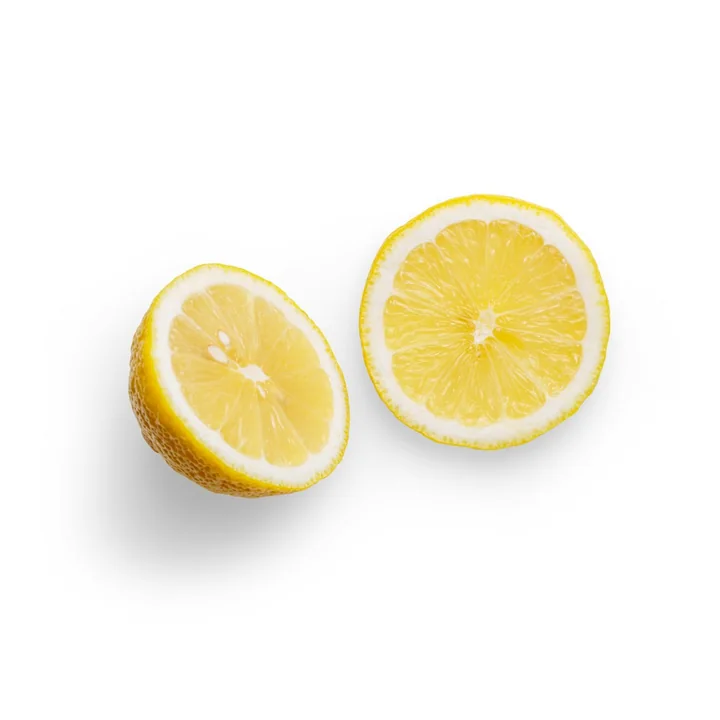
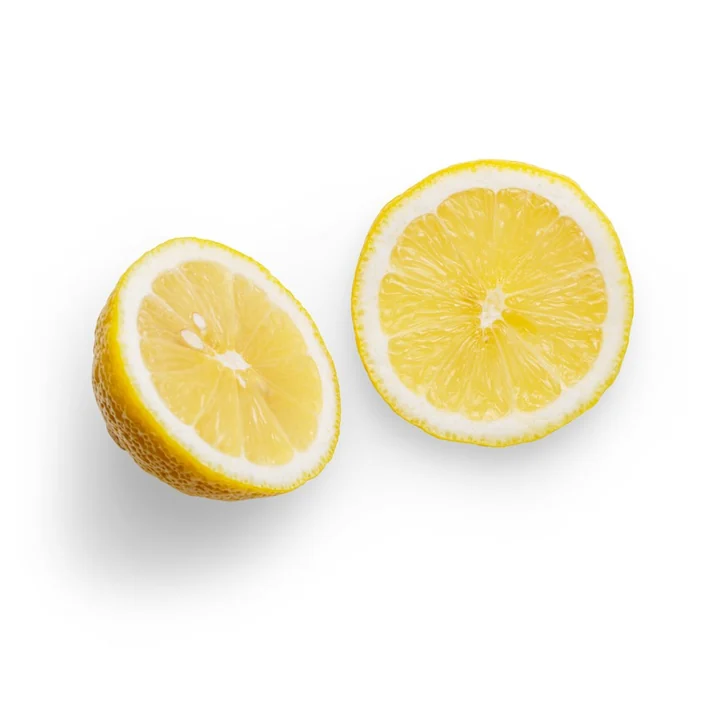
Nike-style pass: heavy tight headlines, edge-to-edge athlete grid with Shop pills, big photo band with two CTAs; all ingredient photos on pure white

Changed region(s): [[0.0917, 0.2139, 0.8861, 0.7333]]

diff --git a/index.html b/index.html
@@ -32,7 +32,7 @@
 <meta name="theme-color" content="#00a9ac">
 <link rel="preconnect" href="https://fonts.googleapis.com">
 <link rel="preconnect" href="https://fonts.gstatic.com" crossorigin>
-<link rel="stylesheet" href="https://fonts.googleapis.com/css2?family=Jost:ital,wght@0,300;0,400;0,500;0,600;0,700;1,400;1,500&family=Newsreader:ital,opsz,wght@0,6..72,400;1,6..72,400&display=swap">
+<link rel="stylesheet" href="https://fonts.googleapis.com/css2?family=Jost:ital,wght@0,300;0,400;0,500;0,600;0,700;0,800;1,400;1,500;1,800&family=Newsreader:ital,opsz,wght@0,6..72,400;1,6..72,400&display=swap">
 <style>*,*::before,*::after{box-sizing:border-box}body{margin:0}</style>
 <style>
 :root{
@@ -147,7 +147,7 @@ main:focus{outline:none}
   font-weight:500;color:var(--slate);margin:0;
 }
 h1,h2,h3{text-wrap:balance;margin:0;font-weight:400}
-h2{font-size:clamp(1.9rem,4.4vw,3rem);letter-spacing:.16em;text-transform:uppercase;line-height:1.22}
+h2{font-size:clamp(2.1rem,5vw,3.6rem);letter-spacing:-.01em;text-transform:uppercase;line-height:.98;font-weight:800}
 h3{font-size:1.05rem;letter-spacing:.16em;text-transform:uppercase;font-weight:500}
 p{margin:0}
 
@@ -324,8 +324,8 @@ section{padding-block:clamp(84px,11vw,168px)}
 @keyframes paint{from{clip-path:inset(0 100% 0 0)}to{clip-path:inset(0 0 0 0)}}
 .hero h1{
   font-size:clamp(3.2rem,10.5vw,7.4rem);
-  letter-spacing:.1em;text-transform:uppercase;font-weight:400;
-  line-height:.98;color:#0e1414;position:relative;z-index:1;
+  letter-spacing:-.015em;text-transform:uppercase;font-weight:800;
+  line-height:.92;color:#0e1414;position:relative;z-index:1;
 }
 /* the one flavor, said plainly under the headline */
 .hero-flavor{margin-top:10px;font-size:.78rem;letter-spacing:.16em;text-transform:uppercase;font-weight:600;color:var(--pink-ink)}
@@ -2097,46 +2097,54 @@ img[data-photo].swapping{opacity:.35}
 
 /* ---------- reveal ---------- */
 /* ---------- real-photo sections (lifestyle gallery, ingredient photos, photo band) ---------- */
-.life{padding:clamp(56px,7vw,96px) 0 clamp(20px,3vw,40px)}
-.life-head{display:flex;justify-content:space-between;align-items:flex-end;gap:24px;flex-wrap:wrap;margin-bottom:clamp(26px,3vw,38px)}
-.life-head h2{font-size:clamp(1.7rem,3.4vw,2.6rem);font-weight:500;letter-spacing:-.02em;line-height:1.08;max-width:18ch}
-.life-head p{color:var(--slate);font-size:1rem;max-width:36ch;line-height:1.6}
-.life-row{display:grid;grid-template-columns:repeat(6,1fr);gap:14px;width:min(1320px,96vw);margin-inline:auto}
-.life-card{position:relative;border-radius:18px;overflow:hidden;aspect-ratio:4/5;background:var(--panel);margin:0}
-.life-card:nth-child(even){transform:translateY(28px)}
-.life-card img{width:100%;height:100%;object-fit:cover;display:block;transition:transform 1.2s cubic-bezier(.2,.7,.2,1)}
-.life-card:hover img{transform:scale(1.06)}
-.life-card figcaption{position:absolute;left:12px;bottom:12px;font-size:.78rem;letter-spacing:.12em;text-transform:uppercase;font-weight:600;color:#fff;
-  background:rgba(14,20,20,.42);backdrop-filter:blur(6px);-webkit-backdrop-filter:blur(6px);padding:7px 11px;border-radius:99px}
-.life.rv .life-card{opacity:0;transform:translateY(40px);transition:opacity .8s ease,transform .9s cubic-bezier(.2,.7,.2,1)}
+.life{padding:clamp(64px,8vw,110px) 0 0}
+.life-head{display:flex;justify-content:space-between;align-items:flex-end;gap:24px;flex-wrap:wrap;margin-bottom:clamp(22px,3vw,32px)}
+.life-head h2{font-size:clamp(2.2rem,5.6vw,4.4rem);max-width:14ch}
+.life-head p{color:var(--slate);font-size:1rem;max-width:34ch;line-height:1.6}
+.life-cta{display:inline-flex;align-items:center;min-height:44px;padding:0 24px;border-radius:99px;background:var(--ink);color:var(--paper);font-weight:600;text-decoration:none;font-size:.95rem;margin-top:16px}
+.life-cta:hover{opacity:.82}
+.life-row{display:grid;grid-template-columns:repeat(3,1fr);gap:6px;width:100%}
+.life-card{position:relative;overflow:hidden;aspect-ratio:4/5;background:var(--panel);margin:0}
+.life-card img{width:100%;height:100%;object-fit:cover;display:block;transition:transform 1.4s cubic-bezier(.2,.7,.2,1)}
+.life-card:hover img{transform:scale(1.05)}
+.life-card::after{content:"";position:absolute;inset:55% 0 0;background:linear-gradient(transparent,rgba(0,0,0,.55));pointer-events:none}
+.life-card figcaption{position:absolute;left:clamp(16px,2.4vw,32px);bottom:clamp(16px,2.4vw,30px);z-index:1;color:#fff}
+.life-card figcaption b{display:block;font-size:clamp(1.3rem,2.4vw,2rem);font-weight:800;text-transform:uppercase;letter-spacing:-.01em;line-height:1}
+.life-card figcaption a{display:inline-flex;align-items:center;min-height:40px;margin-top:12px;padding:0 20px;border-radius:99px;background:#fff;color:#0e1414;font-weight:600;font-size:.9rem;text-decoration:none}
+.life-card figcaption a:hover{background:var(--pink-soft)}
+.life.rv .life-card{opacity:0;transform:translateY(30px);transition:opacity .8s ease,transform .9s cubic-bezier(.2,.7,.2,1)}
 .life.rv.in .life-card{opacity:1;transform:none}
-.life.rv.in .life-card:nth-child(even){transform:translateY(28px)}
 .life.rv.in .life-card:nth-child(2){transition-delay:.08s}.life.rv.in .life-card:nth-child(3){transition-delay:.16s}
 .life.rv.in .life-card:nth-child(4){transition-delay:.24s}.life.rv.in .life-card:nth-child(5){transition-delay:.32s}
 .life.rv.in .life-card:nth-child(6){transition-delay:.4s}
 @media (max-width:900px){
-  .life-row{display:flex;overflow-x:auto;scroll-snap-type:x mandatory;gap:12px;padding:0 4vw 34px;width:100%;scrollbar-width:none}
+  .life-row{display:flex;overflow-x:auto;scroll-snap-type:x mandatory;gap:6px;scrollbar-width:none}
   .life-row::-webkit-scrollbar{display:none}
-  .life-card{flex:0 0 62%;scroll-snap-align:center}
+  .life-card{flex:0 0 78%;scroll-snap-align:start}
 }
 .ingp{display:grid;grid-template-columns:repeat(3,1fr);gap:14px;margin-top:clamp(26px,3vw,36px)}
 .ingp figure{margin:0;text-align:center}
-.ingp .ph{border-radius:16px;overflow:hidden;aspect-ratio:1;background:var(--panel)}
+.ingp .ph{border-radius:16px;overflow:hidden;aspect-ratio:1;background:#fff;isolation:isolate}
+.ingp .ph img{mix-blend-mode:multiply}
 .ingp img{width:100%;height:100%;object-fit:cover;display:block;transition:transform .9s cubic-bezier(.2,.7,.2,1)}
 .ingp figure:hover img{transform:scale(1.08) rotate(-1deg)}
 .ingp figcaption{font-size:.74rem;letter-spacing:.1em;text-transform:uppercase;color:var(--slate);margin-top:9px;font-weight:500;line-height:1.35}
 .ingp .ingp-wide{grid-column:1/-1}
 .ingp .ingp-wide .ph{aspect-ratio:3/1}
-.pband{position:relative;overflow:hidden;min-height:clamp(420px,62vh,640px);display:flex;align-items:center;color:#fff;isolation:isolate}
+.pband{position:relative;overflow:hidden;min-height:clamp(480px,82vh,820px);display:flex;align-items:center;color:#fff;isolation:isolate}
 .pband>img{position:absolute;inset:-6% 0;width:100%;height:112%;object-fit:cover;z-index:-2;will-change:transform}
 .pband::before{content:"";position:absolute;inset:0;z-index:-1;background:linear-gradient(100deg,rgba(14,20,20,.82) 0%,rgba(14,20,20,.55) 45%,rgba(14,20,20,.08) 80%)}
 :root[data-product="hydrapro"] .pband::before{background:linear-gradient(100deg,rgba(0,60,62,.85) 0%,rgba(0,90,92,.55) 45%,rgba(0,90,92,.08) 80%)}
 .pband-copy{width:min(1120px,92vw);margin-inline:auto}
-.pband h2{font-size:clamp(2rem,5vw,3.8rem);font-weight:500;letter-spacing:-.025em;line-height:1.04;max-width:17ch}
+.pband h2{font-size:clamp(2.6rem,8vw,6.4rem);font-weight:800;letter-spacing:-.02em;line-height:.92;max-width:12ch}
 .pband-stats{display:flex;gap:clamp(22px,4vw,54px);margin-top:clamp(24px,3vw,36px);flex-wrap:wrap}
 .pband-stats b{display:block;font-size:clamp(1.8rem,3.4vw,2.6rem);font-weight:500;letter-spacing:-.02em}
 .pband-stats span{font-size:.82rem;letter-spacing:.12em;text-transform:uppercase;opacity:.82}
-.pband .btn-band{display:inline-block;margin-top:clamp(26px,3vw,38px);background:#fff;color:#0e1414;font-weight:600;padding:15px 26px;border-radius:99px;text-decoration:none;min-height:44px}
+.pband-btns{display:flex;gap:10px;flex-wrap:wrap;margin-top:clamp(26px,3vw,38px)}
+.pband button.btn-band{border:0;font:inherit;font-weight:600;cursor:pointer}
+.pband .btn-band.ghost{background:transparent;color:#fff;box-shadow:inset 0 0 0 2px #fff}
+.pband .btn-band.ghost:hover{background:#fff;color:#0e1414}
+.pband .btn-band{display:inline-flex;align-items:center;background:#fff;color:#0e1414;font-weight:600;padding:15px 26px;border-radius:99px;text-decoration:none;min-height:44px}
 .pband .btn-band:hover{background:var(--pink-soft)}
 .story-photo{margin-top:28px;border-radius:20px;overflow:hidden;aspect-ratio:4/5;max-width:340px}
 .story-photo img{width:100%;height:100%;object-fit:cover;display:block}
@@ -2755,15 +2763,15 @@ body:not(.fun-mode) .galaxy-bg *{animation-play-state:paused!important}
   <section class="life rv" aria-label="Made for training">
     <div class="wrap life-head">
       <h2><span data-only="restore">Made for the work <em style="font-family:Newsreader,serif;font-weight:400">after</em> the work.</span><span data-only="hydrapro">Built for the longest, sweatiest sessions.</span></h2>
-      <p><span data-only="restore">Long runs, sprint days, game days, court time. One stick in water when you&rsquo;re done.</span><span data-only="hydrapro">More sodium for heavy sweaters, plus a probiotic for your gut. For days that take everything.</span></p>
+      <div><p><span data-only="restore">Long runs, sprint days, game days, court time. One stick in water when you&rsquo;re done.</span><span data-only="hydrapro">More sodium for heavy sweaters, plus a probiotic for your gut. For days that take everything.</span></p><a class="life-cta" href="#order">Shop now</a></div>
     </div>
     <div class="life-row">
-      <figure class="life-card"><img src="/images/life/run.webp?v=life2" alt="Runner on a hillside trail in golden evening light" loading="lazy" decoding="async" width="900" height="1125"><figcaption>Long runs</figcaption></figure>
-      <figure class="life-card"><img src="/images/life/sprint.webp?v=life2" alt="Runner's legs and pink spikes on a blue track" loading="lazy" decoding="async" width="900" height="1125"><figcaption>Sprint days</figcaption></figure>
-      <figure class="life-card"><img src="/images/life/hoop.webp?v=life2" alt="Shadow of a basketball hoop on an outdoor court" loading="lazy" decoding="async" width="900" height="1125"><figcaption>Game day</figcaption></figure>
-      <figure class="life-card"><img src="/images/life/mobility.webp?v=life2" alt="Athlete stretching in a bright studio" loading="lazy" decoding="async" width="900" height="1125"><figcaption>Mobility</figcaption></figure>
-      <figure class="life-card"><img src="/images/life/court.webp?v=life2" alt="Shadows across an orange clay tennis court" loading="lazy" decoding="async" width="900" height="1125"><figcaption>Court time</figcaption></figure>
-      <figure class="life-card"><img src="/images/life/rest.webp?v=life2" alt="Athlete warming up outdoors in the sun" loading="lazy" decoding="async" width="900" height="1125"><figcaption>Warm-ups</figcaption></figure>
+      <figure class="life-card"><img src="/images/life/run.webp?v=life2" alt="Runner on a hillside trail in golden evening light" loading="lazy" decoding="async" width="900" height="1125"><figcaption><b>Long runs</b><a href="#order">Shop</a></figcaption></figure>
+      <figure class="life-card"><img src="/images/life/sprint.webp?v=life2" alt="Runner's legs and pink spikes on a blue track" loading="lazy" decoding="async" width="900" height="1125"><figcaption><b>Sprint days</b><a href="#order">Shop</a></figcaption></figure>
+      <figure class="life-card"><img src="/images/life/hoop.webp?v=life2" alt="Shadow of a basketball hoop on an outdoor court" loading="lazy" decoding="async" width="900" height="1125"><figcaption><b>Game day</b><a href="#order">Shop</a></figcaption></figure>
+      <figure class="life-card"><img src="/images/life/mobility.webp?v=life2" alt="Athlete stretching in a bright studio" loading="lazy" decoding="async" width="900" height="1125"><figcaption><b>Mobility</b><a href="#order">Shop</a></figcaption></figure>
+      <figure class="life-card"><img src="/images/life/court.webp?v=life2" alt="Shadows across an orange clay tennis court" loading="lazy" decoding="async" width="900" height="1125"><figcaption><b>Court time</b><a href="#order">Shop</a></figcaption></figure>
+      <figure class="life-card"><img src="/images/life/rest.webp?v=life2" alt="Athlete warming up outdoors in the sun" loading="lazy" decoding="async" width="900" height="1125"><figcaption><b>Warm-ups</b><a href="#order">Shop</a></figcaption></figure>
     </div>
   </section>
 
@@ -2916,15 +2924,15 @@ body:not(.fun-mode) .galaxy-bg *{animation-play-state:paused!important}
           <p class="sec-lede"><span data-only="restore">Nine real ingredients, each earning its place.</span><span data-only="hydrapro">Restore&rsquo;s nine ingredients, built up, plus a probiotic.</span> <span class="doodle-underline">Tap any one<svg class="doodle-svg" viewBox="0 0 120 18" fill="none" stroke="var(--pink-ink)" stroke-width="2.6" stroke-linecap="round" stroke-linejoin="round" aria-hidden="true" filter="url(#sketch-sm)"><path d="M3 10 C 25 2, 50 15, 75 6 C 92 1, 108 12, 117 8"/></svg></span> for the mechanism behind it, then scroll down for exactly what one stick delivers.</p>
         </div>
         <div class="ingp rv" aria-label="Every ingredient">
-          <figure><div class="ph"><img src="/images/life/coconut.webp?v=life3" alt="Fresh coconut halves" loading="lazy" decoding="async" width="720" height="720"></div><figcaption>Coconut water</figcaption></figure>
-          <figure><div class="ph"><img src="/images/life/sugar.webp?v=life3" alt="Raw cane sugar crystals" loading="lazy" decoding="async" width="720" height="720"></div><figcaption>Organic cane sugar</figcaption></figure>
-          <figure><div class="ph"><img src="/images/life/cherry.webp?v=life3" alt="A single red cherry" loading="lazy" decoding="async" width="720" height="720"></div><figcaption>Tart cherry</figcaption></figure>
-          <figure><div class="ph"><img src="/images/life/lemon.webp?v=life3" alt="Lemon halves" loading="lazy" decoding="async" width="720" height="720"></div><figcaption>Lemon juice</figcaption></figure>
-          <figure><div class="ph"><img src="/images/life/pomegranate.webp?v=life3" alt="Halved pomegranate with seeds" loading="lazy" decoding="async" width="720" height="720"></div><figcaption>Pomegranate</figcaption></figure>
-          <figure><div class="ph"><img src="/images/life/apple.webp?v=life3" alt="A green apple on a white plate" loading="lazy" decoding="async" width="720" height="720"></div><figcaption>Apple</figcaption></figure>
-          <figure><div class="ph"><img src="/images/life/monk.webp?v=life3" alt="Monk fruit growing on the vine" loading="lazy" decoding="async" width="720" height="720"></div><figcaption>Monk fruit</figcaption></figure>
-          <figure><div class="ph"><img src="/images/life/pumpkin.webp?v=life3" alt="Green pumpkin seeds" loading="lazy" decoding="async" width="720" height="720"></div><figcaption>Pumpkin seed</figcaption></figure>
-          <figure><div class="ph"><img src="/images/life/salt.webp?v=life3" alt="Pink Himalayan salt crystals" loading="lazy" decoding="async" width="720" height="720"></div><figcaption>Pink Himalayan salt</figcaption></figure>
+          <figure><div class="ph"><img src="/images/life/coconut.webp?v=life5" alt="Fresh coconut halves" loading="lazy" decoding="async" width="720" height="720"></div><figcaption>Coconut water</figcaption></figure>
+          <figure><div class="ph"><img src="/images/life/sugar.webp?v=life5" alt="Raw cane sugar crystals" loading="lazy" decoding="async" width="720" height="720"></div><figcaption>Organic cane sugar</figcaption></figure>
+          <figure><div class="ph"><img src="/images/life/cherry.webp?v=life5" alt="A single red cherry" loading="lazy" decoding="async" width="720" height="720"></div><figcaption>Tart cherry</figcaption></figure>
+          <figure><div class="ph"><img src="/images/life/lemon.webp?v=life5" alt="Lemon halves" loading="lazy" decoding="async" width="720" height="720"></div><figcaption>Lemon juice</figcaption></figure>
+          <figure><div class="ph"><img src="/images/life/pomegranate.webp?v=life5" alt="Halved pomegranate with seeds" loading="lazy" decoding="async" width="720" height="720"></div><figcaption>Pomegranate</figcaption></figure>
+          <figure><div class="ph"><img src="/images/life/apple.webp?v=life5" alt="A green apple on a white plate" loading="lazy" decoding="async" width="720" height="720"></div><figcaption>Apple</figcaption></figure>
+          <figure><div class="ph"><img src="/images/life/monk.webp?v=life5" alt="Monk fruit growing on the vine" loading="lazy" decoding="async" width="720" height="720"></div><figcaption>Monk fruit</figcaption></figure>
+          <figure><div class="ph"><img src="/images/life/pumpkin.webp?v=life5" alt="Green pumpkin seeds" loading="lazy" decoding="async" width="720" height="720"></div><figcaption>Pumpkin seed</figcaption></figure>
+          <figure><div class="ph"><img src="/images/life/salt.webp?v=life5" alt="Pink Himalayan salt crystals" loading="lazy" decoding="async" width="720" height="720"></div><figcaption>Pink Himalayan salt</figcaption></figure>
           <figure class="ingp-wide" data-only="hydrapro"><div class="ph"><img src="/images/life/probiotic.webp?v=life3" alt="Illustration of rod-shaped probiotic bacteria" loading="lazy" decoding="async" width="1200" height="400"></div><figcaption><i>Bacillus coagulans</i> &middot; 1&nbsp;billion+ CFU</figcaption></figure>
         </div>
         <ol class="ingx" data-only="restore">
@@ -3786,7 +3794,11 @@ body:not(.fun-mode) .galaxy-bg *{animation-play-state:paused!important}
         <div data-only="hydrapro"><b>~280&nbsp;mg</b><span>potassium</span></div>
         <div data-only="hydrapro"><b>1B+</b><span>CFU probiotic</span></div>
       </div>
-      <a class="btn-band" href="#order">Choose your pack</a>
+      <div class="pband-btns">
+        <a class="btn-band" href="#order">Shop now</a>
+        <button type="button" class="btn-band ghost" data-only="restore" data-pick-product="hydrapro">Explore Hydrapro</button>
+        <button type="button" class="btn-band ghost" data-only="hydrapro" data-pick-product="restore">Explore Restore</button>
+      </div>
     </div>
   </section>
 
